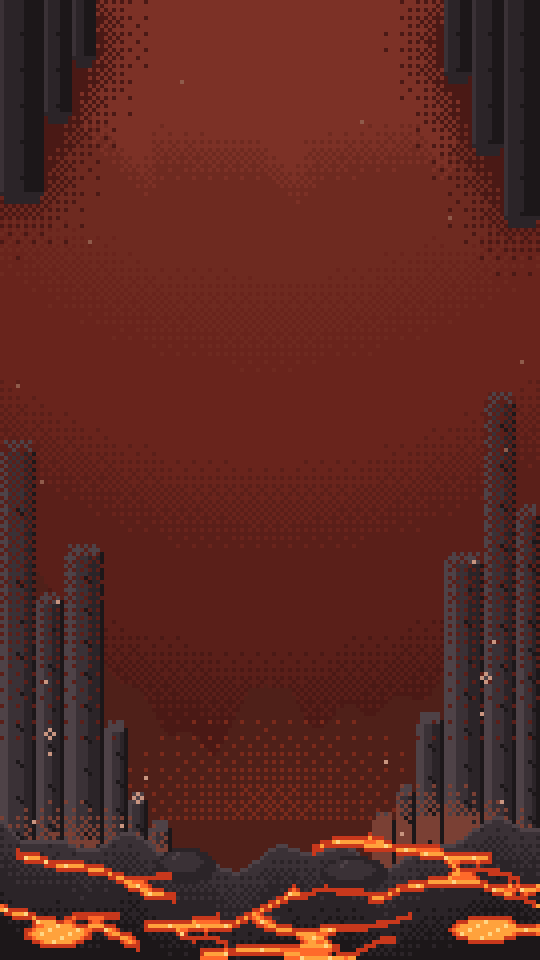
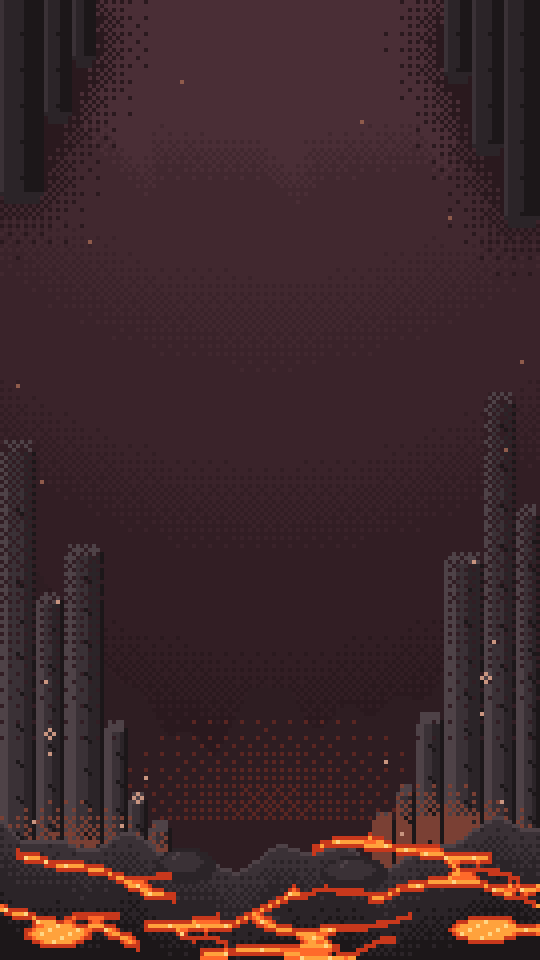
Арт вулкана: новый магмовый дракон, светлее краб и кальмар, вода темнее (контраст рыб)
Claude-Session: https://claude.ai/code/session_014TQ7nYXfcMnJ6Bo8D8EV2h

diff --git a/art/src/magma_dragon.py b/art/src/magma_dragon.py
@@ -4,9 +4,9 @@ sys.path.insert(0, os.path.join(os.path.dirname(os.path.abspath(__file__)), ".."
 from pixel import Grid, save_sprite
 
 OUT = "#1d2b3a"
-LIGHT = "#8a7478"   # базальт, свет
-BASE = "#54444b"    # базальт, база
-SHADE = "#2f262c"   # базальт, тень
+LIGHT = "#a8908f"   # базальт, свет
+BASE = "#6e5c62"    # базальт, база
+SHADE = "#46393f"   # базальт, тень
 LAVA = "#ff7a1f"
 GLOW = "#ffd84a"
 HORN = "#ffe0a8"
@@ -24,10 +24,10 @@ def spline(ctrl, n=14):
     out.append(ctrl[-1])
     return out
 
-ctrl = [(4, 16), (6, 22), (13, 25), (19, 22), (21, 16), (23, 12)]
+ctrl = [(3, 15), (7, 19), (12, 21), (17, 19), (20, 16), (22, 15)]
 pts = spline(ctrl)
 M = len(pts)
-rad = [0.8 + 2.4 * min(i / (M * 0.6), 1.0) for i in range(M)]
+rad = [0.8 + 2.6 * min(i / (M * 0.55), 1.0) for i in range(M)]
 
 def normal(i):
     j0, j1 = max(i - 1, 0), min(i + 1, M - 1)
@@ -38,7 +38,7 @@ def normal(i):
 
 g = Grid()
 # светящийся гребень вдоль спины
-for i in range(10, M - 6, 5):
+for i in range(8, M - 4, 5):
     (dx, dy), (nx, ny) = normal(i)
     x, y = pts[i]; r = rad[i]
     b0 = (round(x + nx * (r - 0.5) - dx * 1.5), round(y + ny * (r - 0.5) - dy * 1.5))
@@ -55,10 +55,12 @@ g.poly([(tx, ty - 1), (tx, ty - 4), (tx + 1, ty - 1)], GLOW)
 for (x, y), r in zip(pts, rad):
     g.ellipse(round(x), round(y), r - 0.5, r - 0.5, BASE)
 # лапка-плавник
-g.poly([(18, 23), (16, 27), (21, 25)], LAVA)
-g.set(16, 27, GLOW)
+g.poly([(15, 22), (13, 26), (18, 23)], LAVA)
+g.set(13, 26, GLOW)
+g.poly([(9, 21), (7, 25), (11, 22)], LAVA)
+g.set(7, 25, GLOW)
 # голова
-hx, hy = 24, 9
+hx, hy = 24, 13
 g.ellipse(hx, hy, 5, 5, BASE)
 g.ellipse(hx + 4, hy + 3, 2, 2, BASE)             # морда
 # рожки
@@ -72,11 +74,11 @@ for y in range(g.h):
             if snap[y - 1][x] is None or snap[y - 1][x - 1] is None and snap[y][x - 1] == BASE and snap[y - 1][x] != BASE:
                 g.set(x, y, LIGHT)
             elif snap[y + 1][x] is None:
-                g.set(x, y, LAVA if (y > 17 and x < 22) else SHADE)
-            elif snap[y + 2][x] is None and y > 17 and x < 22:
+                g.set(x, y, LAVA if (x < 22) else SHADE)
+            elif snap[y + 2][x] is None and x < 22:
                 g.set(x, y, SHADE)
 # трещины
-for (x, y) in ((11, 22), (12, 23), (16, 20), (17, 19), (21, 15), (21, 14)):
+for (x, y) in ((8, 17), (9, 18), (13, 19), (14, 18), (18, 16), (19, 17)):
     if g.get(x, y) in (BASE, SHADE, LIGHT):
         g.set(x, y, LAVA)
 # лицо

diff --git a/art/src/bg_volcano.py b/art/src/bg_volcano.py
@@ -4,10 +4,10 @@ sys.path.insert(0, os.path.dirname(os.path.abspath(__file__)))
 from bgkit import *
 
 rng = random.Random(5)
-WATER = ["#7C3126", "#6E2A20", "#69241C", "#5A1F19", "#4A1915", "#38120F"]
-GLOW = ["#7A2A1B", "#97371E", "#B84A23"]            # тёплое свечение воды у лавы
+WATER = ["#4A2E36", "#41282F", "#3A232A", "#321E24", "#2A191E", "#211417"]
+GLOW = ["#5A2622", "#7E3020", "#A84221"]            # тёплое свечение воды у лавы
 BAS = ["#4E4247", "#3A3136", "#2B2428", "#1C1719"]  # базальт: свет, середина, тень, глубокая тень
-FAR = "#4F2019"                                     # дальний план (чуть светлее воды внизу)
+FAR = "#2E1D22"                                     # дальний план (чуть светлее воды внизу)
 LAVA = ["#C8381C", "#FF6A2A", "#FFA23C", "#FFD684"]
 ASH, ASH_D = "#C99580", "#8F5B4B"
 WARM = "#7A4034"

diff --git a/art/src/magma_crab.py b/art/src/magma_crab.py
@@ -4,9 +4,9 @@ sys.path.insert(0, os.path.join(os.path.dirname(os.path.abspath(__file__)), ".."
 from pixel import Grid, save_sprite
 
 OUT = "#1d2b3a"
-LIGHT = "#7d6a6e"   # базальт, свет
-BASE = "#4d3f45"    # базальт, база
-SHADE = "#2f262c"   # базальт, тень
+LIGHT = "#a08a8c"   # базальт, свет
+BASE = "#6e5c62"    # базальт, база
+SHADE = "#4a3d43"   # базальт, тень
 LAVA = "#ff7a1f"
 GLOW = "#ffd84a"
 CLAW = "#c23a22"

diff --git a/art/src/caldera_squid.py b/art/src/caldera_squid.py
@@ -6,7 +6,7 @@ from pixel import Grid, save_sprite
 OUT = "#1d2b3a"
 LIGHT = "#ee6b45"
 BASE = "#b73a2a"
-SHADE = "#6a1c22"
+SHADE = "#8e2a26"
 FIN = "#c2412a"
 GLOW = "#ff9a3c"
 GLOW2 = "#ffd84a"
